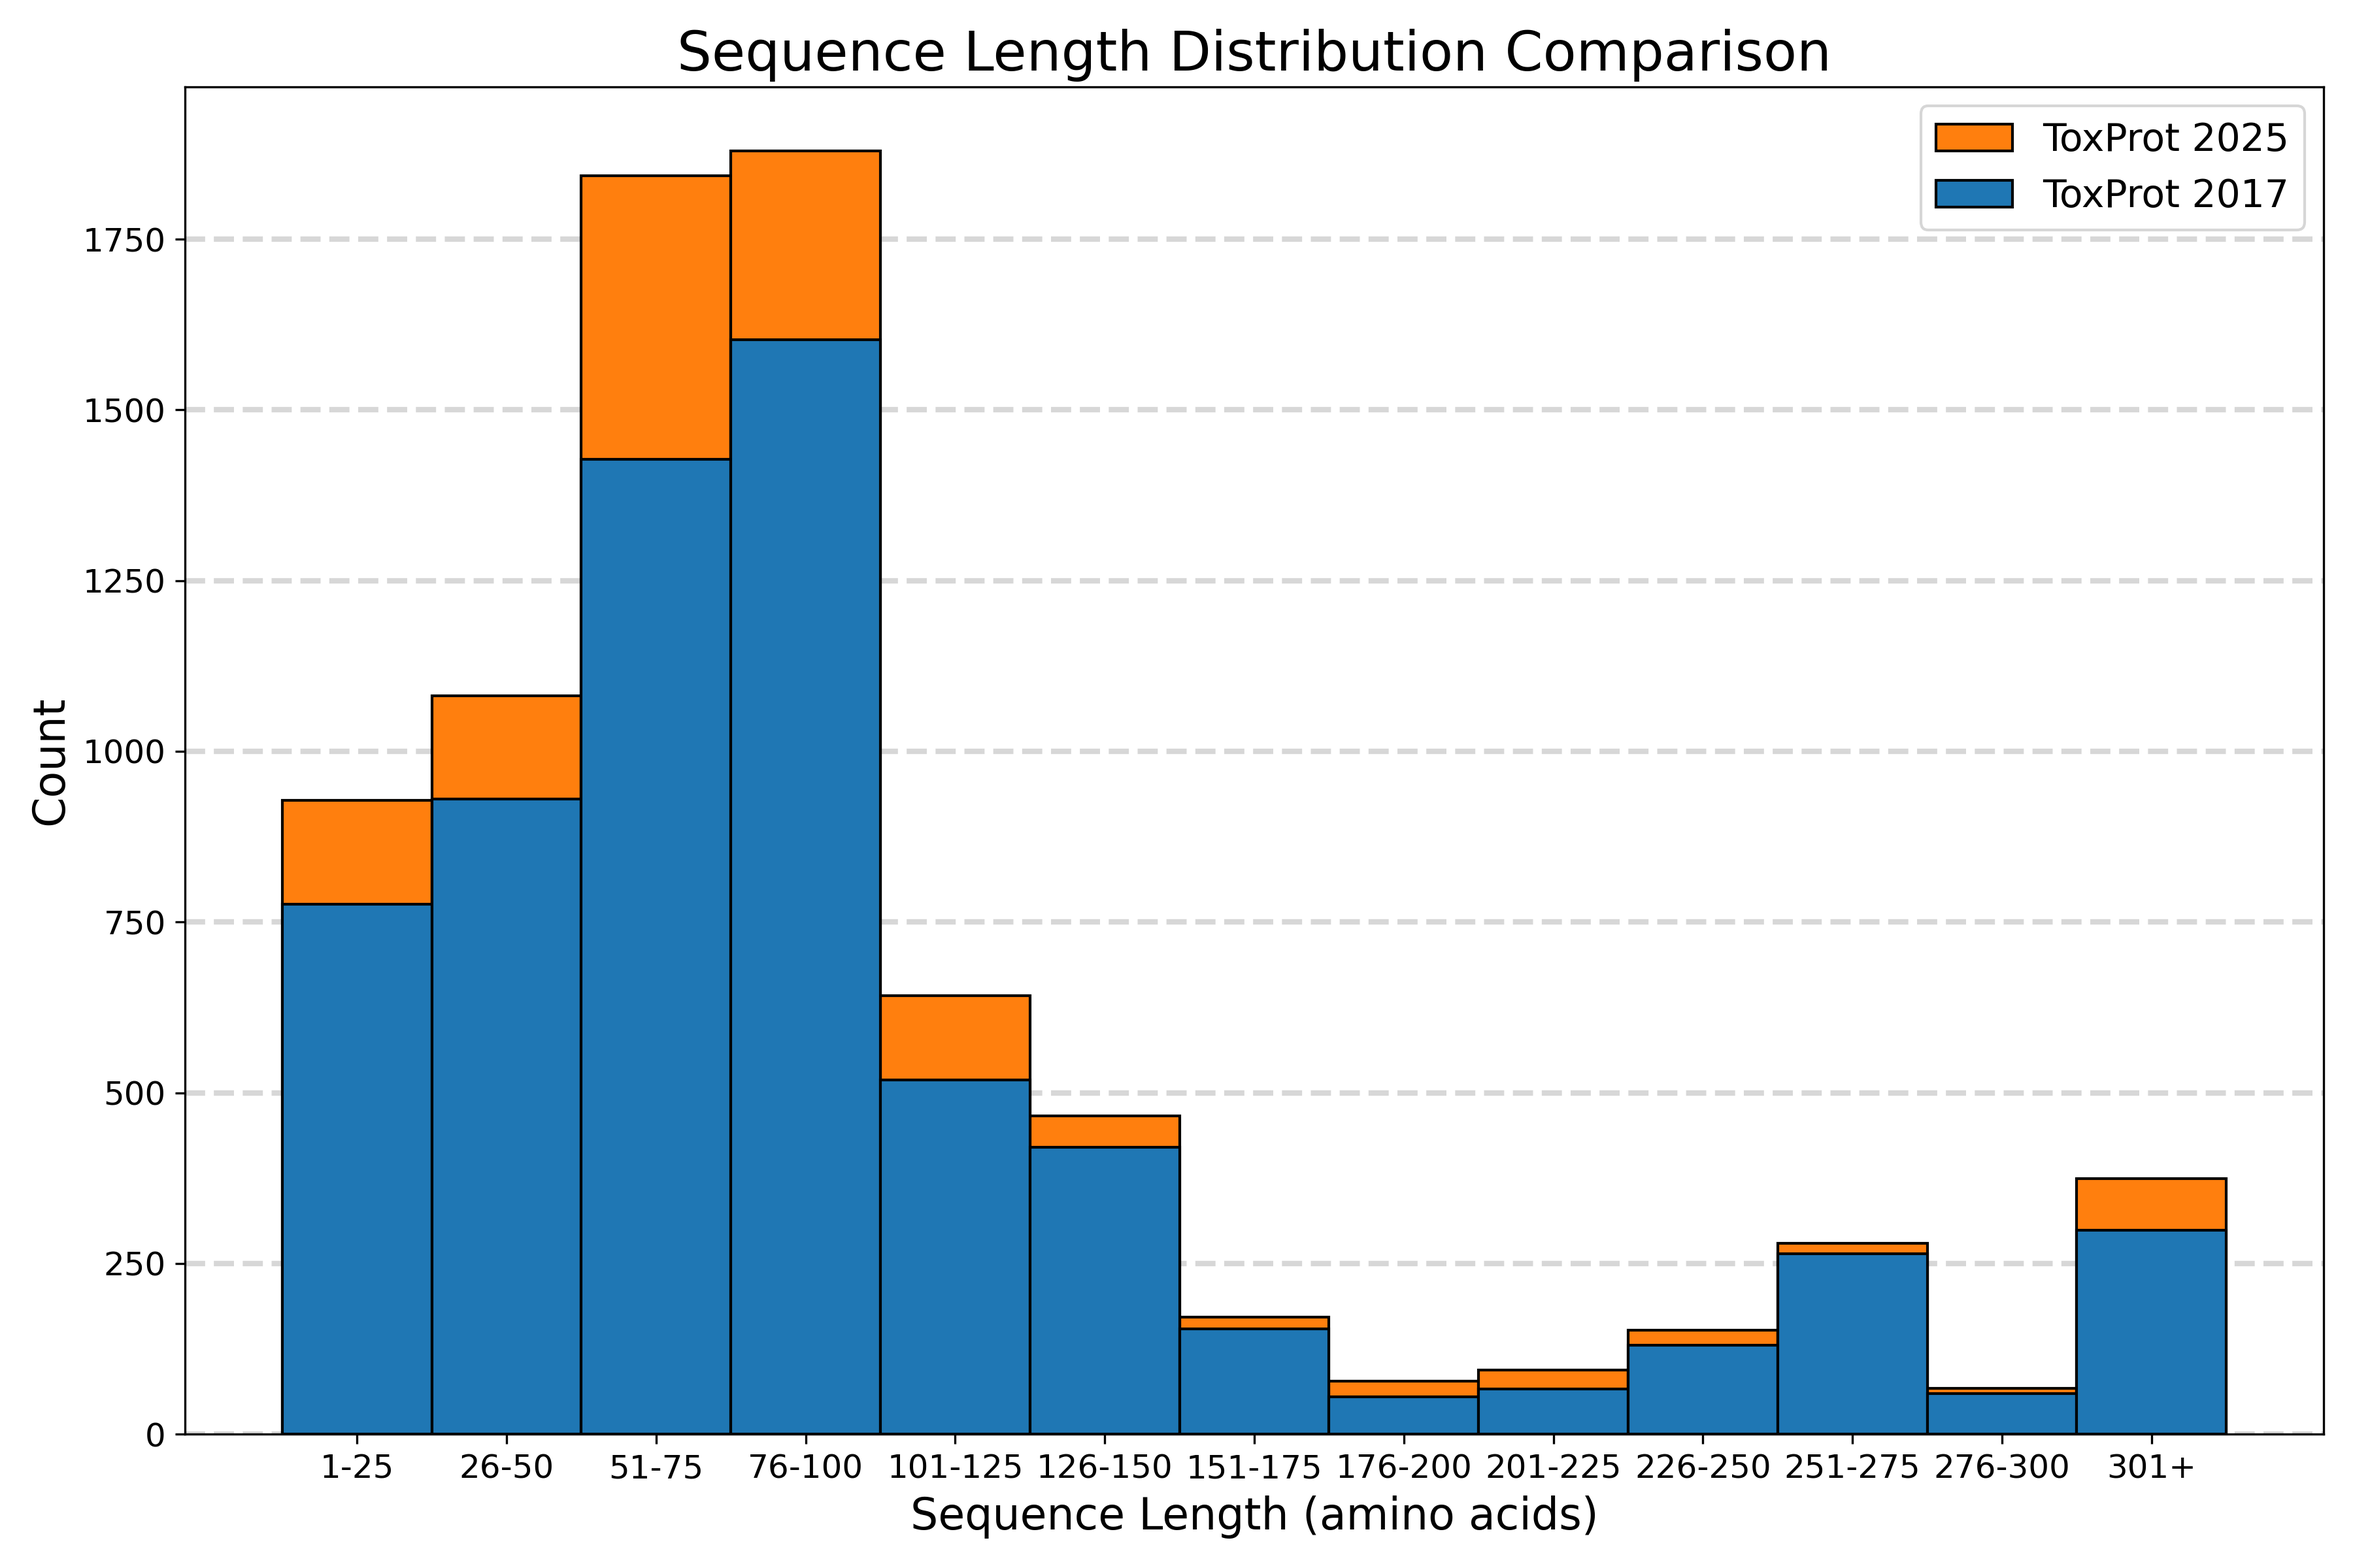
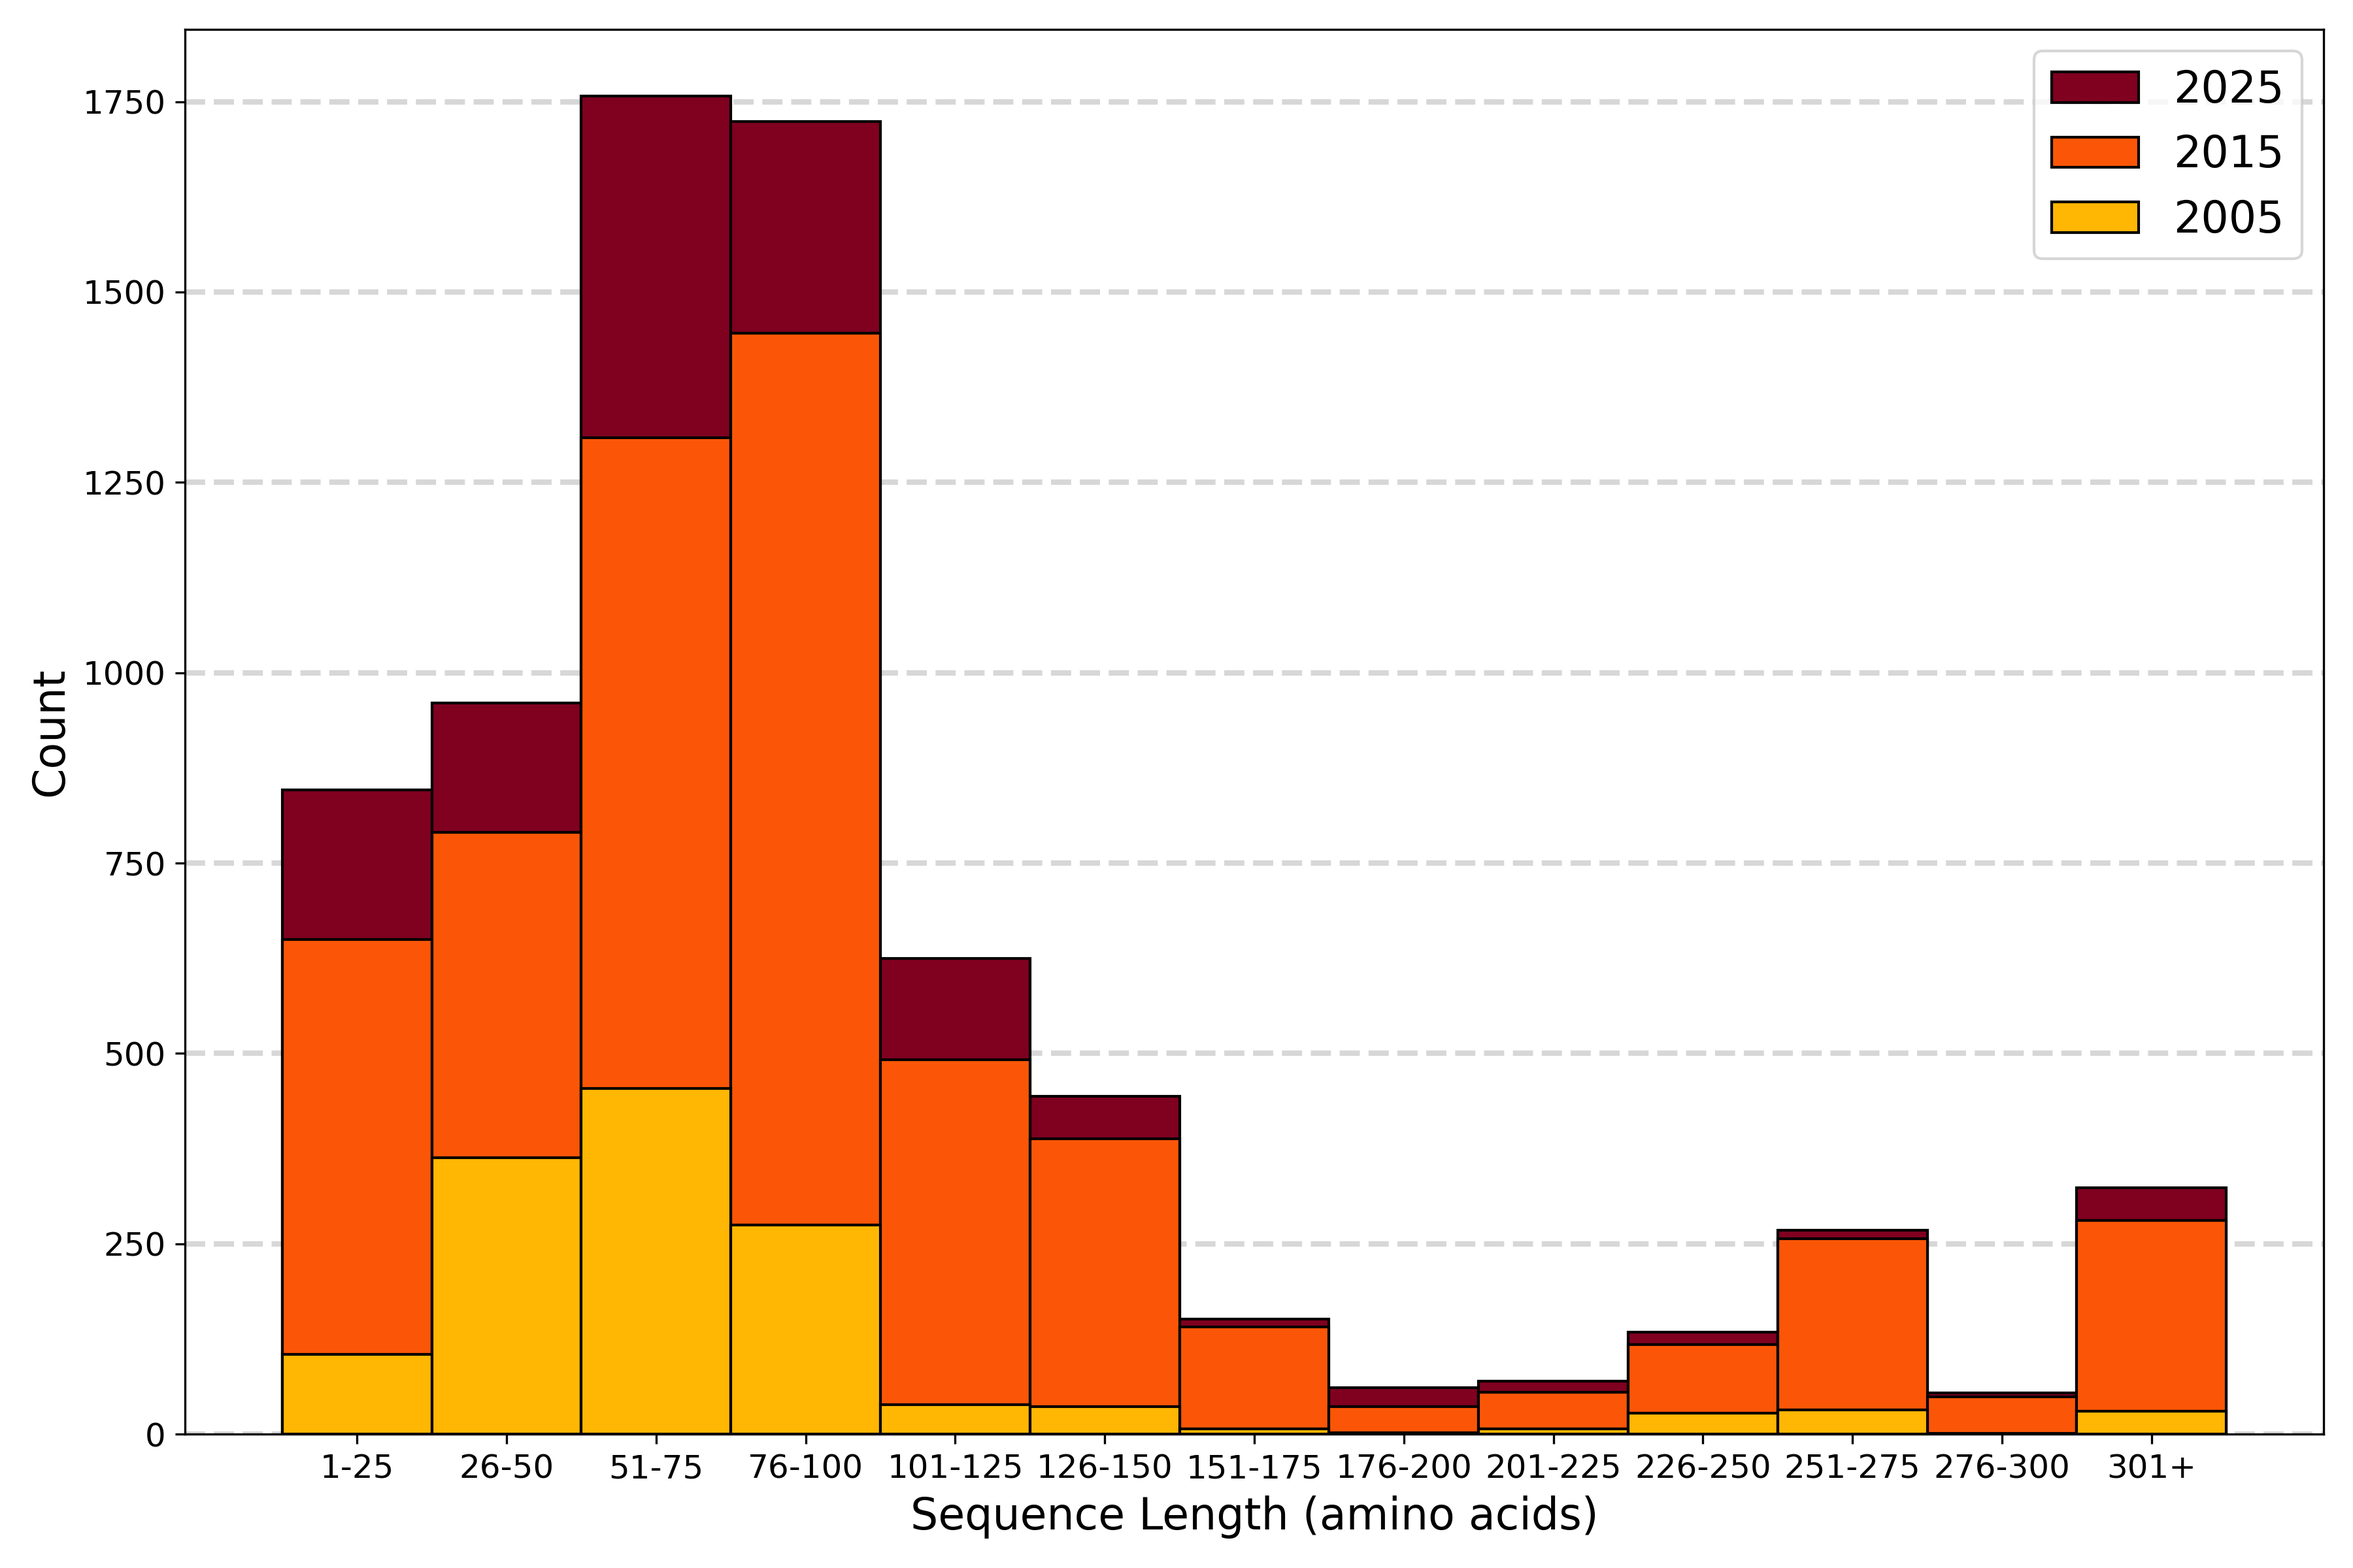
feat(analysis): extract sequence length histogram to standalone module

diff --git a/src/analysis/analyze_protein_families.py b/src/analysis/analyze_protein_families.py
@@ -3,9 +3,8 @@
 Analyze and visualize protein family distributions in ToxProt datasets.
 
 This script generates:
-1. Sequence length distribution histogram (figures/)
-2. Protein families stacked bar chart (figures/protein_families/)
-3. Summary statistics table (figures/)
+1. Protein families stacked bar chart (figures/protein_families/)
+2. Summary statistics table (figures/)
 """
 
 import argparse
@@ -51,76 +50,6 @@ def get_top_families_per_dataset(df, column, top_n=15):
     if nan_count > 0:
         result_series["NaN"] = nan_count
     return result_series
-
-
-def plot_sequence_length_histogram(df_2017, df_2025, output_path):
-    """
-    Create overlaid histogram comparing sequence lengths between datasets.
-
-    Args:
-        df_2017: DataFrame with 2017 data
-        df_2025: DataFrame with 2025 data
-        output_path: Path to save the figure
-    """
-    lengths_17 = df_2017["Length"].dropna()
-    lengths_25 = df_2025["Length"].dropna()
-
-    # Define bin edges: 25 AA bins up to 300, then 301+
-    bin_edges_up_to_300 = np.arange(1, 302, 25)
-    last_bin_edge = bin_edges_up_to_300[-1]  # 301
-    all_hist_bins = np.append(bin_edges_up_to_300, last_bin_edge + 25)
-
-    # Map all lengths >= 301 to 301 for binning
-    lengths_17_binned = lengths_17.copy()
-    lengths_25_binned = lengths_25.copy()
-    lengths_17_binned[lengths_17_binned >= last_bin_edge] = last_bin_edge
-    lengths_25_binned[lengths_25_binned >= last_bin_edge] = last_bin_edge
-
-    # Create bin labels
-    bin_labels = [
-        f"{start}-{end - 1}"
-        for start, end in zip(all_hist_bins[:-2], all_hist_bins[1:-1], strict=False)
-    ]
-    bin_labels.append(f"{all_hist_bins[-2]}+")  # "301+"
-
-    # Create figure
-    fig, ax = plt.subplots(figsize=(12, 8))
-
-    ax.hist(
-        lengths_25_binned,
-        bins=all_hist_bins,
-        color=plt.cm.tab10(1),
-        label="ToxProt 2025",
-        alpha=1,
-        edgecolor="black",
-    )
-    ax.hist(
-        lengths_17_binned,
-        bins=all_hist_bins,
-        color=plt.cm.tab10(0),
-        label="ToxProt 2017",
-        alpha=1,
-        edgecolor="black",
-    )
-
-    # Styling
-    ax.set_xlabel("Sequence Length (amino acids)", fontsize=AXIS_LABEL_FONTSIZE)
-    ax.set_ylabel("Count", fontsize=AXIS_LABEL_FONTSIZE)
-    ax.set_title("Sequence Length Distribution Comparison", fontsize=TITLE_FONTSIZE)
-
-    # Set x-axis ticks to bin centers
-    tick_centers = (all_hist_bins[:-1] + all_hist_bins[1:]) / 2.0
-    ax.set_xticks(tick_centers)
-    ax.set_xticklabels(bin_labels, fontsize=TICK_LABEL_FONTSIZE)
-    ax.tick_params(axis="y", labelsize=TICK_LABEL_FONTSIZE)
-
-    ax.set_axisbelow(True)
-    ax.grid(axis="y", linestyle="--", linewidth=2, alpha=0.5)
-    ax.legend(fontsize=LEGEND_FONTSIZE)
-
-    plt.tight_layout()
-    plt.savefig(output_path, dpi=300)
-    plt.close()
 
 
 def _create_family_order(top_17, top_25):
@@ -398,7 +327,7 @@ def main():
     args = parser.parse_args()
 
     # Load all datasets
-    years = ["2005", "2010", "2015", "2020", "2025"]
+    years = ["2005", "2015", "2025"]
     print("Loading ToxProt datasets...")
     datasets = {}
     for year in years:
@@ -419,19 +348,14 @@ def main():
     protein_families_dir.mkdir(parents=True, exist_ok=True)
 
     # Define output paths
-    length_hist_path = args.output_dir / "sequence_length_distribution.png"
     families_bar_path = protein_families_dir / "top_families_stacked_bar.png"
     summary_table_path = args.output_dir / "dataset_summary_statistics.png"
 
     # Generate visualizations
     print("\nGenerating visualizations...")
 
-    # Use 2017 and 2025 for histogram and families chart (for now)
+    # Use 2017 and 2025 for families chart
     if "2017" in datasets and "2025" in datasets:
-        print("  → Sequence length distribution histogram...")
-        plot_sequence_length_histogram(datasets["2017"], datasets["2025"], length_hist_path)
-        print(f"    ✓ {length_hist_path}")
-
         print(f"  → Top {args.top_n} protein families stacked bar chart...")
         plot_stacked_bar_protein_families(
             datasets["2017"], datasets["2025"], families_bar_path, top_n=args.top_n

diff --git a/src/analysis/analyze_sequence_length.py b/src/analysis/analyze_sequence_length.py
@@ -1,0 +1,136 @@
+#!/usr/bin/env python3
+"""
+Analyze and visualize sequence length distributions in ToxProt datasets.
+
+This script generates a histogram comparing sequence lengths across
+multiple ToxProt time points (2005, 2015, 2025).
+"""
+
+from pathlib import Path
+
+import matplotlib.pyplot as plt
+import numpy as np
+import pandas as pd
+
+from .colors import YEAR_COLORS
+
+# Font sizes for consistent styling
+AXIS_LABEL_FONTSIZE = 16
+TICK_LABEL_FONTSIZE = 12
+LEGEND_FONTSIZE = 16
+
+
+def plot_sequence_length_histogram(
+    datasets: dict[int, pd.DataFrame], output_path: Path
+) -> None:
+    """
+    Create overlaid histogram comparing sequence lengths across years.
+
+    Args:
+        datasets: Dictionary mapping year (int) to DataFrame with 'Length' column.
+        output_path: Path to save the figure.
+    """
+    # Define bin edges: 25 AA bins up to 300, then 301+
+    bin_edges_up_to_300 = np.arange(1, 302, 25)
+    last_bin_edge = bin_edges_up_to_300[-1]  # 301
+    all_hist_bins = np.append(bin_edges_up_to_300, last_bin_edge + 25)
+
+    # Create bin labels
+    bin_labels = [
+        f"{start}-{end - 1}"
+        for start, end in zip(all_hist_bins[:-2], all_hist_bins[1:-1], strict=False)
+    ]
+    bin_labels.append(f"{all_hist_bins[-2]}+")  # "301+"
+
+    # Create figure
+    fig, ax = plt.subplots(figsize=(12, 8))
+
+    # Plot in order: latest year (back) to earliest year (front)
+    for year in sorted(datasets.keys(), reverse=True):
+        df = datasets[year]
+        lengths = df["Length"].dropna()
+
+        # Map all lengths >= 301 to 301 for binning
+        lengths_binned = lengths.copy()
+        lengths_binned[lengths_binned >= last_bin_edge] = last_bin_edge
+
+        ax.hist(
+            lengths_binned,
+            bins=all_hist_bins,
+            color=YEAR_COLORS[year],
+            label=str(year),
+            alpha=1,
+            edgecolor="black",
+        )
+
+    # Styling
+    ax.set_xlabel("Sequence Length (amino acids)", fontsize=AXIS_LABEL_FONTSIZE)
+    ax.set_ylabel("Count", fontsize=AXIS_LABEL_FONTSIZE)
+
+    # Set x-axis ticks to bin centers
+    tick_centers = (all_hist_bins[:-1] + all_hist_bins[1:]) / 2.0
+    ax.set_xticks(tick_centers)
+    ax.set_xticklabels(bin_labels, fontsize=TICK_LABEL_FONTSIZE)
+    ax.tick_params(axis="y", labelsize=TICK_LABEL_FONTSIZE)
+
+    ax.set_axisbelow(True)
+    ax.grid(axis="y", linestyle="--", linewidth=2, alpha=0.5)
+    ax.legend(fontsize=LEGEND_FONTSIZE)
+
+    plt.tight_layout()
+    plt.savefig(output_path, dpi=300)
+    plt.close()
+
+
+def main():
+    """Main function to run sequence length analysis."""
+    import argparse
+
+    parser = argparse.ArgumentParser(
+        description="Analyze and visualize sequence length distributions."
+    )
+    parser.add_argument(
+        "--data-dir",
+        type=Path,
+        default=Path("data/processed/toxprot"),
+        help="Directory containing processed CSV files (default: data/processed/toxprot)",
+    )
+    parser.add_argument(
+        "--output-dir",
+        type=Path,
+        default=Path("figures"),
+        help="Directory to save output figures (default: figures)",
+    )
+
+    args = parser.parse_args()
+
+    # Load datasets for years 2005, 2015, 2025
+    years = [2005, 2015, 2025]
+    print("Loading ToxProt datasets...")
+    datasets = {}
+    for year in years:
+        filepath = args.data_dir / f"toxprot_{year}.csv"
+        if filepath.exists():
+            datasets[year] = pd.read_csv(filepath)
+            print(f"  → {year}: {len(datasets[year]):,} entries")
+        else:
+            print(f"  → {year}: not found, skipping")
+
+    if len(datasets) < 2:
+        print("Error: Need at least 2 datasets")
+        return
+
+    # Ensure output directory exists
+    args.output_dir.mkdir(parents=True, exist_ok=True)
+
+    # Generate histogram
+    output_path = args.output_dir / "sequence_length_distribution.png"
+    print("\nGenerating sequence length histogram...")
+    plot_sequence_length_histogram(datasets, output_path)
+    print(f"  Saved: {output_path}")
+
+    print("\nDone!")
+
+
+if __name__ == "__main__":
+    main()

diff --git a/src/analysis/cli.py b/src/analysis/cli.py
@@ -119,6 +119,60 @@ def taxa(ctx, data_dir, output_dir):
     click.echo("Taxa analysis complete.")
 
 
+@analysis.command("length")
+@click.option(
+    "--data-dir",
+    type=click.Path(exists=True, path_type=Path),
+    default=Path("data/processed/toxprot"),
+    show_default=True,
+    help="Directory containing processed CSV files.",
+)
+@click.option(
+    "--output-dir",
+    "-o",
+    type=click.Path(path_type=Path),
+    default=Path("figures"),
+    show_default=True,
+    help="Directory to save output figures.",
+)
+@click.pass_context
+def length(ctx, data_dir, output_dir):
+    """Run sequence length distribution analysis.
+
+    Generates a histogram comparing sequence lengths across ToxProt
+    time points (2005, 2015, 2025).
+
+    \b
+    Examples:
+        toxprot analysis length
+        toxprot analysis -d all length
+        toxprot analysis length -o figures/custom
+    """
+    from .analyze_sequence_length import plot_sequence_length_histogram
+
+    definition = ctx.obj["definition"]
+    output_dir.mkdir(parents=True, exist_ok=True)
+
+    # Load datasets
+    years = [2005, 2015, 2025]
+    datasets = {}
+    for year in years:
+        filepath = data_dir / f"toxprot_{year}.csv"
+        if filepath.exists():
+            datasets[year] = pd.read_csv(filepath)
+
+    if definition != "all":
+        datasets = {year: filter_by_definition(df, definition) for year, df in datasets.items()}
+        datasets = {year: df for year, df in datasets.items() if len(df) > 0}
+
+    if len(datasets) < 2:
+        raise click.ClickException("Need at least 2 datasets")
+
+    output_path = output_dir / "sequence_length_distribution.png"
+    plot_sequence_length_histogram(datasets, output_path)
+    click.echo(f"Saved {output_path} (definition: {definition})")
+
+
 @analysis.command()
 @click.option(
     "--data-dir",
@@ -146,8 +200,8 @@ def taxa(ctx, data_dir, output_dir):
 def families(ctx, data_dir, output_dir, top_n):
     """Run protein family distribution analysis.
 
-    Generates sequence length histograms, stacked bar charts of protein
-    families, and summary statistics tables.
+    Generates stacked bar charts of protein families and summary
+    statistics tables.
 
     \b
     Examples:
@@ -157,7 +211,6 @@ def families(ctx, data_dir, output_dir, top_n):
     """
     from .analyze_protein_families import (
         generate_summary_table,
-        plot_sequence_length_histogram,
         plot_stacked_bar_protein_families,
     )
 
@@ -187,16 +240,12 @@ def families(ctx, data_dir, output_dir, top_n):
         raise click.ClickException("Need at least 2 datasets")
 
     # Define output paths
-    length_hist_path = output_dir / "sequence_length_distribution.png"
     families_bar_path = protein_families_dir / "top_families_stacked_bar.png"
     summary_table_path = output_dir / "dataset_summary_statistics.png"
 
     click.echo("\nGenerating visualizations...")
 
     if "2017" in datasets and "2025" in datasets:
-        click.echo("  Sequence length distribution histogram...")
-        plot_sequence_length_histogram(datasets["2017"], datasets["2025"], length_hist_path)
-
         click.echo(f"  Top {top_n} protein families stacked bar chart...")
         plot_stacked_bar_protein_families(
             datasets["2017"], datasets["2025"], families_bar_path, top_n=top_n
